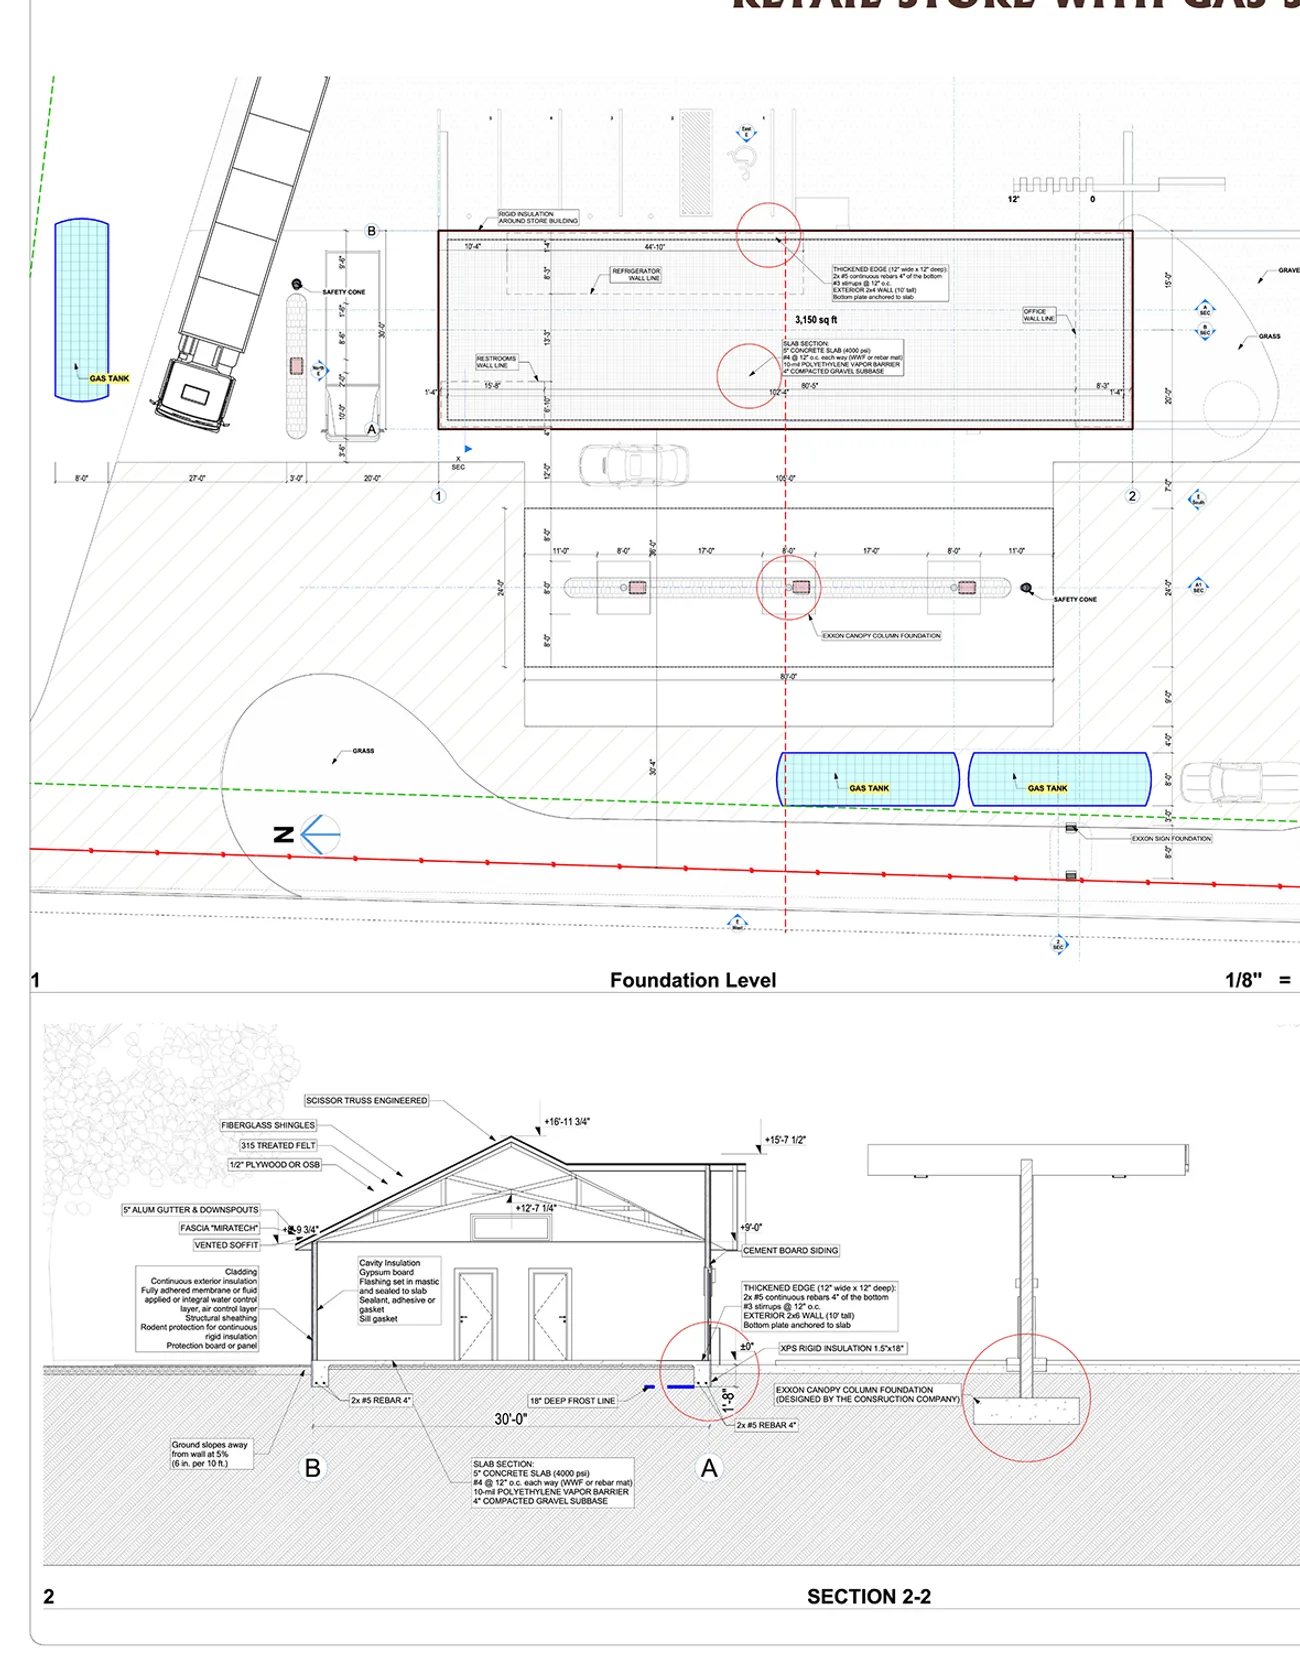
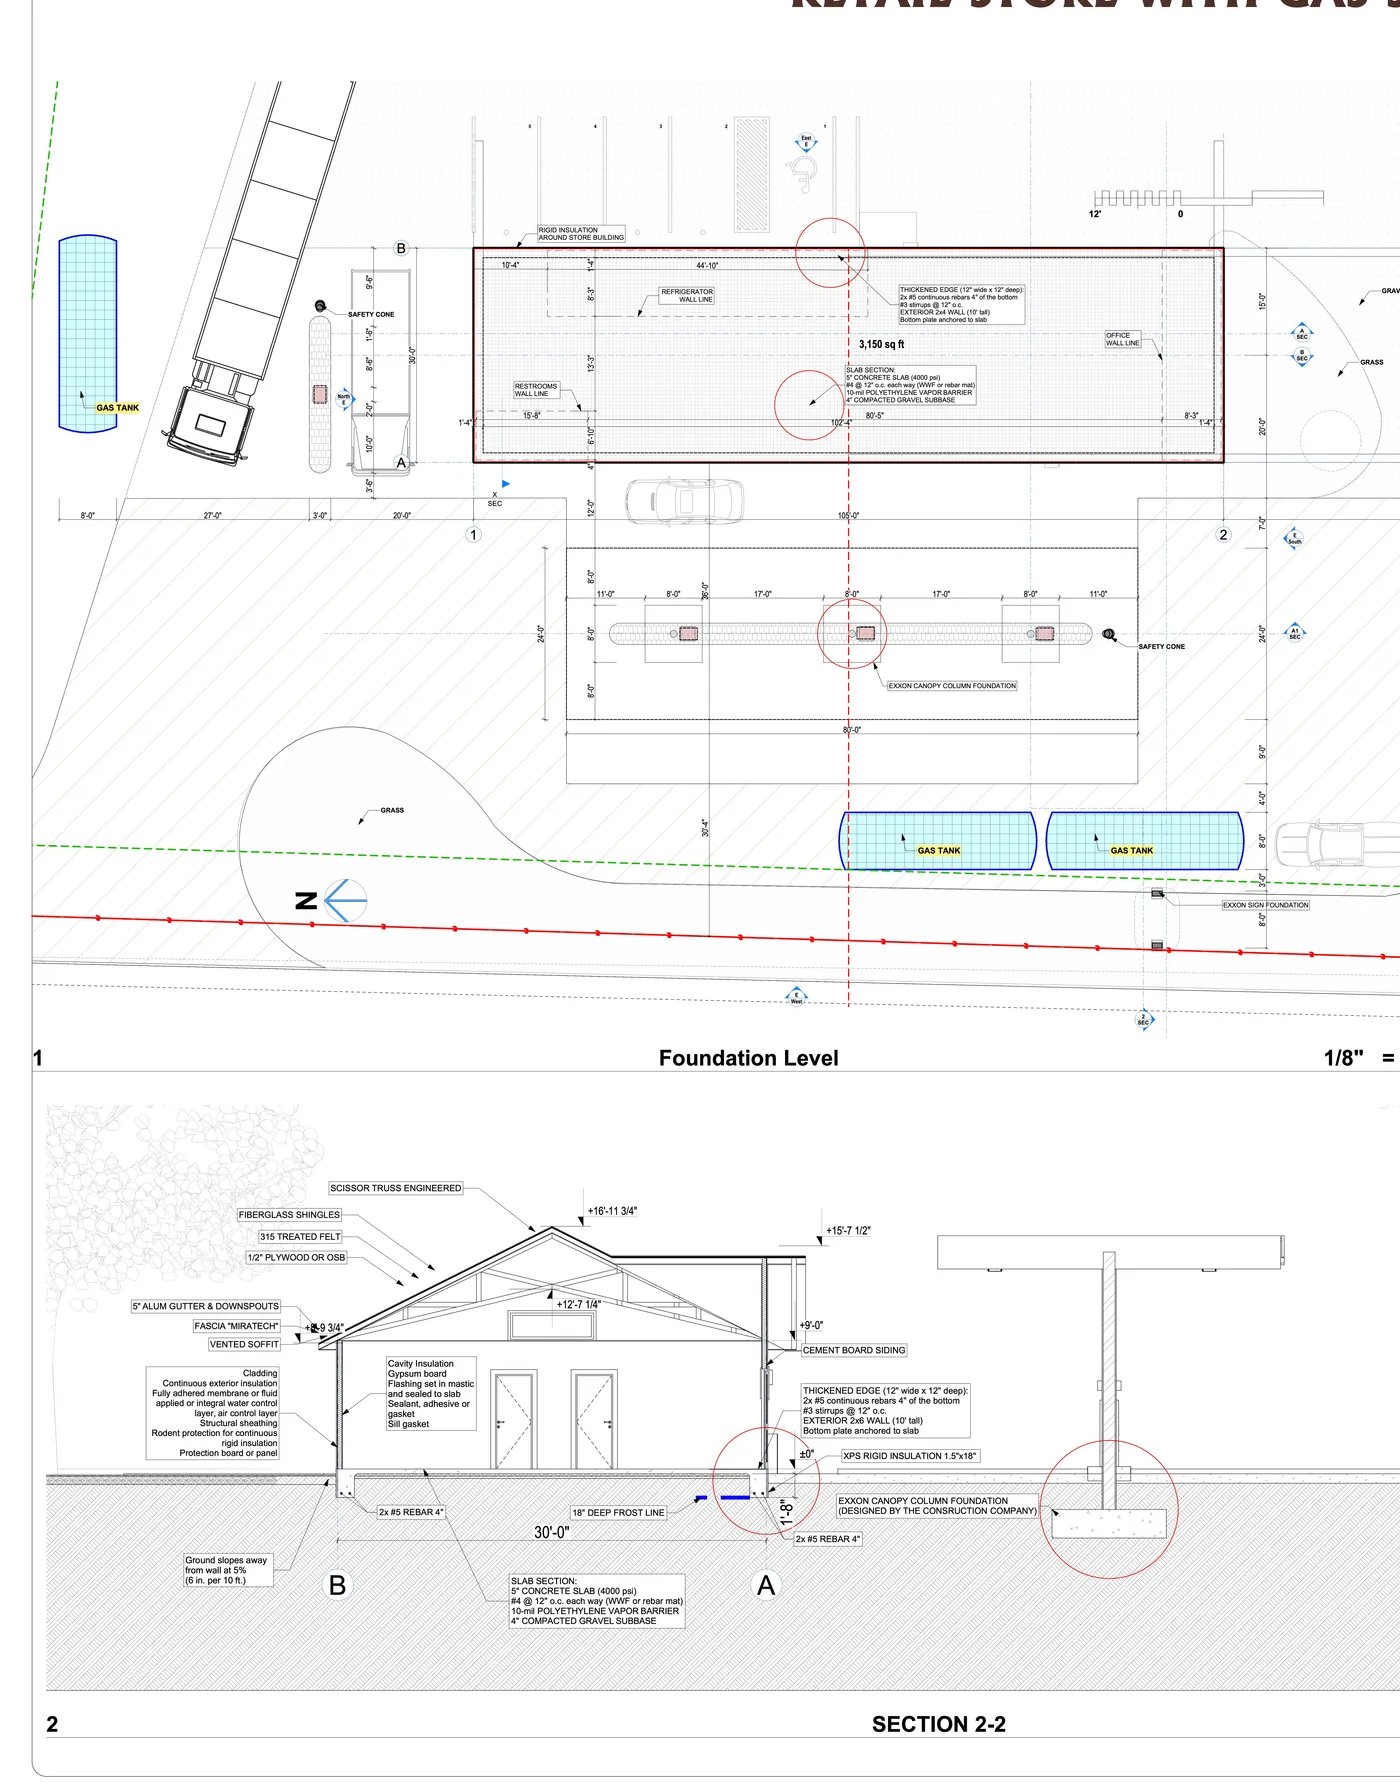
feat: add luxury 3D model renders and sharper gas-station crop
- Add two premium 3D dollhouse cutaway renders from measured surveys
  (PROJECT 5 luxury home, PROJECT 3 estate home) as new project cards
- Feature the luxury 3D render on the home page (featured projects +
  "What you receive" strip) and the 3D-scanning service sample
- Re-crop the gas-station construction sheet from the 12,804px source
  for a sharper image (address column still excluded)

Claude-Session: https://claude.ai/code/session_01CYA33xo7HUqvU7Wm8SuQXy

diff --git a/src/content/projects/estate-home-3d.md b/src/content/projects/estate-home-3d.md
@@ -1,0 +1,12 @@
+---
+title: Estate home — as-built & 3D model
+order: 8
+service: ["3d-scanning", "cad-drafting"]
+buildingType: Single-family home
+location: Western North Carolina
+scopeLine: As-built floor plans and a furnished 3D model produced from a measured survey.
+deliverables: ["As-built plans", "3D model", "DWG"]
+image: /projects/estate-home-3d.webp
+date: "2025"
+featured: false
+---

diff --git a/src/content/projects/luxury-home-3d.md b/src/content/projects/luxury-home-3d.md
@@ -1,0 +1,12 @@
+---
+title: Luxury home — survey to 3D model
+order: 7
+service: ["3d-scanning", "measured-building-surveys"]
+buildingType: Single-family home
+location: Western North Carolina
+scopeLine: Measured survey developed into a full 3D model and cutaway visualizations of a 4,900+ sq ft home.
+deliverables: ["3D model", "Cutaway views", "DWG + PDF"]
+image: /projects/luxury-home-3d.webp
+date: "2025"
+featured: true
+---

diff --git a/src/content/projects/commercial-suites.md b/src/content/projects/commercial-suites.md
@@ -8,5 +8,5 @@ scopeLine: Measured floor plan and rentable suite areas across two commercial un
 deliverables: ["Lease plan", "Suite areas", "PDF"]
 image: /projects/suites-plan.webp
 date: "2025"
-featured: true
+featured: false
 ---